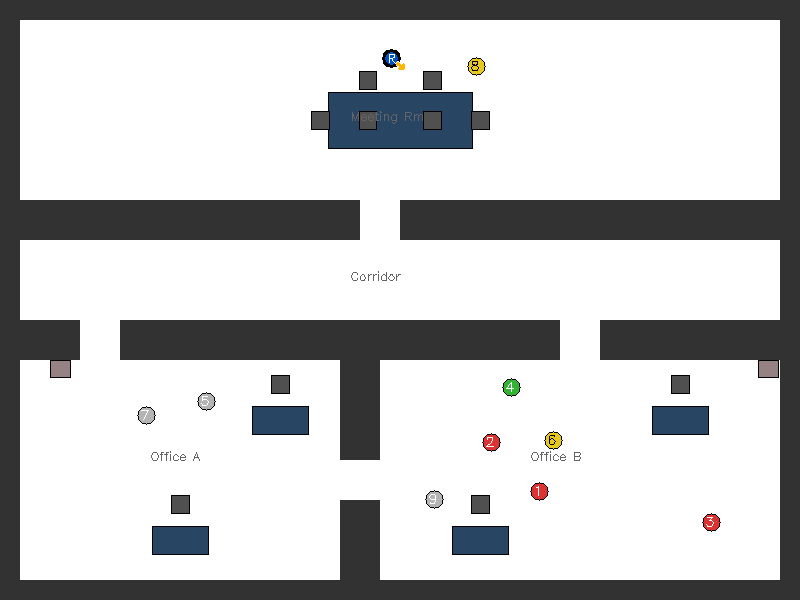
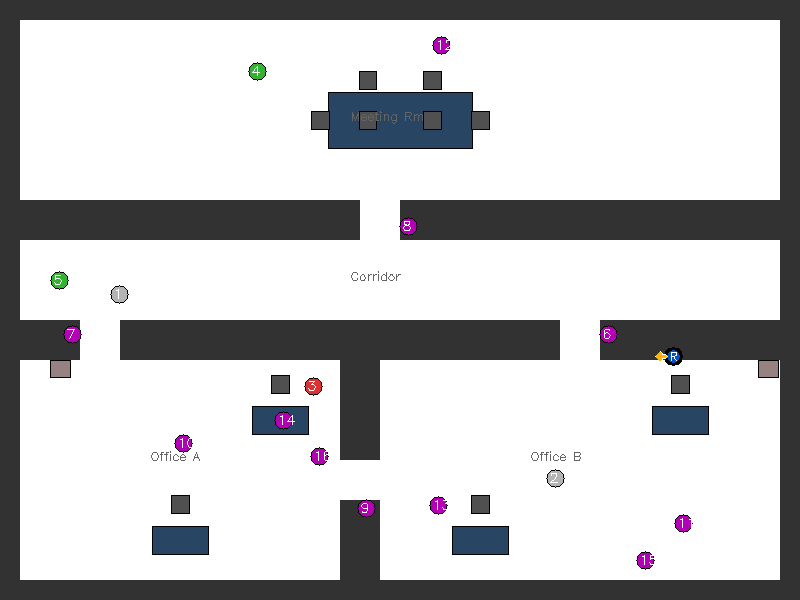
downgraded exit sign, search for person instead, + use sim time for timeout

diff --git a/src/scenario_runner/runner.py b/src/scenario_runner/runner.py
@@ -22,7 +22,7 @@ import logging
 import threading
 import time
 from pathlib import Path
-from typing import Any
+from typing import Any, Callable
 
 from utils.config_loader import load_scenario
 from world_manager.world_generator import WorldGenerator
@@ -40,6 +40,21 @@ _REPO_ROOT = Path(__file__).resolve().parent.parent.parent
 
 # How often to check success criteria during a run
 _POLL_INTERVAL = 2.0
+
+
+def _sim_seconds(node: Any) -> float:
+    """Current sim time in fractional seconds (0.0 until first /clock arrives)."""
+    return node.get_clock().now().nanoseconds * 1e-9
+
+
+def _wait_for_sim_clock(node: Any, timeout_wall: float = 15.0) -> None:
+    """Block until the sim clock publishes its first non-zero tick."""
+    deadline = time.monotonic() + timeout_wall
+    while time.monotonic() < deadline:
+        if _sim_seconds(node) > 0.0:
+            return
+        time.sleep(0.05)
+    log.warning("Sim clock did not become available within %.0fs — timing may be wall-clock", timeout_wall)
 
 
 class ScenarioRunner:
@@ -143,6 +158,8 @@ class ScenarioRunner:
         spin_thread.start()
         # Give DDS time to discover the odom/bumper publishers before the run starts.
         time.sleep(2.0)
+        _wait_for_sim_clock(node)
+        get_time: Callable[[], float] = lambda: _sim_seconds(node)
         log.info("Metrics collection started: %s", list(metrics))
 
         raw: dict[str, Any] = {}
@@ -150,9 +167,10 @@ class ScenarioRunner:
         elapsed = 0.0
         try:
             # ── 4. Run until success criteria met or timeout ───────────────────
-            start_time = time.monotonic()
-            outcome    = self._run_until_done(timeout, metrics, start_time)
-            elapsed    = time.monotonic() - start_time
+            # get_time() returns sim seconds — correct at any --speed multiplier.
+            start_time = get_time()
+            outcome    = self._run_until_done(timeout, metrics, get_time)
+            elapsed    = get_time() - start_time
             log.info("Scenario ended: outcome=%s  elapsed=%.1fs", outcome, elapsed)
 
             # ── 5. Collect final metric snapshot ──────────────────────────────
@@ -400,7 +418,7 @@ class ScenarioRunner:
         self,
         timeout: float,
         metrics: dict[str, Any],
-        start_time: float,
+        get_time: Callable[[], float],
     ) -> str:
         """Poll success criteria every _POLL_INTERVAL seconds.
 
@@ -410,8 +428,9 @@ class ScenarioRunner:
             ``"success"`` if all criteria passed, ``"time_limit"`` when the
             max run time is reached (not a failure — just end of allocated time).
         """
-        deadline = start_time + timeout
-        while time.monotonic() < deadline:
+        start    = get_time()
+        deadline = start + timeout
+        while get_time() < deadline:
             raw = self._collect_metrics(metrics)
             passed, _ = evaluate_criteria(self._cfg["success_criteria"], raw)
             if passed:

diff --git a/scripts/world_state.py b/scripts/world_state.py
@@ -50,7 +50,7 @@ DEFAULT_PNG = REPO_ROOT / "arst_world_map.png"
 CAMERA_FORWARD_OFFSET = 0.05  # metres
 
 # 2-char symbol per object type
-OBJ_SYM = {"fire_extinguisher": "F", "first_aid_kit": "A", "hazard_sign": "H"}
+OBJ_SYM = {"fire_extinguisher": "F", "first_aid_kit": "A", "hazard_sign": "H", "person": "P"}
 
 # Room labels: (world_x_centre, world_y_centre, label)
 ROOMS = [
@@ -324,9 +324,12 @@ def print_summary(
     visible_ids: set[str],
     is_colliding: bool | None,
 ) -> None:
-    print("Objects (ground truth):")
+    print("Objects (ground truth — mission targets only):")
     for lbl in sorted(label_map, key=int):
         info = label_map[lbl]
+        # Backward-compat: old world_state.json without the field → treat as target
+        if not info.get("mission_target", True):
+            continue
         sym = OBJ_SYM.get(info["type"], "?")
         if lbl in found:
             status = "FOUND ✓"
@@ -422,6 +425,9 @@ def render_png(
     VISIBLE_RING  = (255, 255, 255)  # white ring = currently visible
 
     for lbl, info in label_map.items():
+        # Backward-compat: old world_state.json without the field → treat as target
+        if not info.get("mission_target", True):
+            continue
         ix = int(info["x"] * SCALE)
         iy = ih - int(info["y"] * SCALE)
         color = FOUND_COLOR if lbl in found else TYPE_COLOR.get(info["type"], (180, 0, 180))

diff --git a/src/world_manager/object_placer.py b/src/world_manager/object_placer.py
@@ -26,7 +26,8 @@ class PlacedObject:
     x: float
     y: float
     yaw: float = 0.0
-    z: float = 0.0          # 0.0 = floor; >0 = elevated (on furniture surface)
+    z: float = 0.0
+    mission_target: bool = False          # 0.0 = floor; >0 = elevated (on furniture surface)
 
 
 class PlacementError(RuntimeError):
@@ -106,13 +107,17 @@ class ObjectPlacer:
             model_type: str = spec["type"]
             count: int = int(spec.get("count", 1))
             strategy: str = spec.get("placement", "random")
+            is_target: bool = bool(spec.get("mission_target", False))
             if strategy == "clustered":
                 # Place all instances of this type as a cluster together
                 cluster = self._place_clustered(model_type, rng, placed, spec, count)
+                for obj in cluster:
+                    obj.mission_target = is_target
                 placed.extend(cluster)
             else:
                 for _ in range(count):
                     obj = self._place_one_strategy(model_type, rng, placed, spec)
+                    obj.mission_target = is_target
                     placed.append(obj)
 
         return placed

diff --git a/src/world_manager/world_generator.py b/src/world_manager/world_generator.py
@@ -432,6 +432,7 @@ class WorldGenerator:
             self.label_map[str(label_counter)] = {
                 "type": mt, "instance": idx,
                 "x": round(obj.x, 3), "y": round(obj.y, 3),
+                "mission_target": obj.mission_target,
             }
             world_elem.append(self._load_model_element(mt, idx, obj, label_counter))
             label_counter += 1

diff --git a/.claude/skills/arst-test/SKILL.md b/.claude/skills/arst-test/SKILL.md
@@ -1,0 +1,180 @@
+---
+name: arst-test
+description: Test and evaluate an autonomous robot running an ARST scenario. Use when you are the observer/tester — starting the sim, watching a robot agent run, monitoring ground-truth progress, and reading final scores. NOT for driving the robot yourself (use /arst-nav for that, if available).
+user_invocable: true
+---
+
+# arst-test — ARST Autonomous Robot Test Skill
+
+You are the **observer/tester**, not the driver. A separate autonomy stack controls DerpBot.
+Your job: start the sim, start the agent, monitor from the outside, and interpret results.
+
+All commands run from the ~/Projects/robot-sandbox repo root. PYTHONPATH and ROS env are set by hooks — no prefix needed.
+
+---
+
+## Scenario tiers
+
+See the AUTONOMOUS_AGENT_GUIDE.md file.
+---
+
+## 1. Start the simulation
+
+Run in a tmux session so it stays alive:
+```bash
+tmux new -s sim -d './scripts/run_scenario.sh config/scenarios/office_explore_detect/medium.yaml --headless [--seed N] [--speed N] [--timeout N]' # timeout is in sim time
+tmux capture-pane -t sim -p -S -20   # check startup output
+```
+
+Wait ~5 s. Sim is ready when `world_state.py` returns without error.
+
+**Check RTF after sim starts (before agent):**
+```bash
+gz topic -e -t /stats | head -20
+```
+Look for `real_time_factor`. Should be at or near `1.0` (or near `--speed N` if set).
+A RTF of 1.0 is a minimum. If it is lower than that there is something still running on the computer hogging resources.
+
+After starting the agent, **check RTF again**. The sim and autonomy stack share the same hardware. A drop in RTF at this point means the agent is too compute-heavy; the sim will slow down, timing-dependent behaviour will break, and metrics will be skewed.
+
+---
+
+## 2. Start the autonomous agent
+
+Run the robot's agent script in a separate tmux session:
+```bash
+tmux new -s agent -d 'python3.12 <path/to/agent_script.py>'
+tmux capture-pane -t agent -p -S -30   # watch agent output
+```
+
+The agent controls the robot via ROS topics or `robot_control.py`. You do not drive.
+
+---
+
+## 3. Monitor ground-truth progress (world_state.py)
+
+This is your primary observability tool. Call it any time to get a full status snapshot.
+
+```bash
+# Default: writes arst_world_map.png in repo root, prints full status
+python3.12 scripts/world_state.py
+# Then: Read arst_world_map.png
+```
+
+**Output includes:**
+- Object list with status: `not found`, `FOUND ✓`, or `not found  [visible 👁]`
+- Robot pose (world frame, yaw, facing direction)
+- Collision status: `⚡ COLLISION` or `no collision`
+- Elapsed time and remaining time (when scenario is active)
+
+**Map legend:**
+- Blue circle + arrow = robot; RED ring = currently colliding
+- White ring on unfound object = currently visible in camera (LOS-checked)
+- Coloured circles = unfound objects (red=fire_ext, green=first_aid, yellow=hazard)
+- Grey = found, Brown = furniture, Dark = walls
+
+**Save to a custom path** (useful for comparing across time):
+```bash
+python3.12 scripts/world_state.py --png /tmp/map_t0.png
+# ... later ...
+python3.12 scripts/world_state.py --png /tmp/map_t1.png
+```
+
+**Post-run — render map from a results file** (no sim needed):
+```bash
+python3.12 scripts/world_state.py --results results/office_medium_001_<timestamp>.json --no-ros
+```
+
+---
+
+## 4. Check robot pose and camera
+
+```bash
+# Print current pose (world frame, yaw):
+python3.12 scripts/robot_control.py status
+
+# Take a camera snapshot (what the robot currently sees):
+python3.12 scripts/robot_control.py snapshot
+# Default output: /tmp/robot_snapshot.png — then: Read /tmp/robot_snapshot.png
+
+# Save to a named path:
+python3.12 scripts/robot_control.py snapshot --output /tmp/snap_t1.png
+```
+
+Use these to diagnose agent behaviour:
+- Robot stuck? `status` to get pose, compare across calls.
+- Agent claiming to see objects? `snapshot` to verify the camera view.
+- Collision event? `world_state.py` shows collision ring on robot in map.
+
+---
+
+## 5. Read live tmux output
+
+```bash
+# Sim logs (last 30 lines):
+tmux capture-pane -t sim -p -S -30
+
+# Agent logs (last 50 lines):
+tmux capture-pane -t agent -p -S -50
+```
+
+The sim prints a scorecard + `SUCCESS` or `TIME_LIMIT` when the scenario ends.
+The results JSON is written to `results/` automatically.
+
+---
+
+## 6. Interpret the results JSON
+
+Results land in `results/<scenario_name>_<timestamp>.json`.
+
+```bash
+ls -t results/ | head -5   # most recent first
+```
+
+Key fields:
+
+```
+status              — "SUCCESS" or "TIME_LIMIT"
+elapsed_seconds     — sim-seconds taken
+overall_score       — 0–100
+overall_grade       — S / A / B / C / D / F
+categories          — per-category scores: speed, accuracy, safety, efficiency, effectiveness
+raw_metrics:
+  found_ratio           — 0.0–1.0 (1.0 = all 9 objects found)
+  precision             — true positives / all detections (low = many false positives)
+  duplicate_rate        — fraction of detections that are duplicates
+  collision_count       — number of collision events
+  near_miss_count       — passes within 20 cm of obstacle
+  meters_traveled       — total odometry distance
+  exploration_coverage  — % of free space covered by LiDAR
+```
+
+Grade thresholds: S ≥ 95, A ≥ 85, B ≥ 70, C ≥ 55, D ≥ 40, F < 40.
+
+Category weights: speed 20%, accuracy 30%, safety 25%, efficiency 10%, effectiveness 15%.
+
+---
+
+## 7. Monitoring loop (while agent runs)
+
+Repeat until scenario ends or time runs out:
+
+```
+world_state.py  →  Read map  →  check found count + collision status
+robot_control.py status  →  check pose if robot seems stuck
+tmux capture-pane -t agent  →  watch for errors or stalls
+```
+
+Polling interval: every 15–30 s wall-time is enough unless debugging a specific issue.
+At `--speed 3`, 30 s wall = 90 s sim. Check more often for short timeouts.
+
+---
+
+## Key gotchas
+
+- **Python**: always `python3.12`. `python3` may resolve to a different venv.
+- **`world_state.py` requires a running sim** unless you pass `--no-ros --results <file>`.
+- **`robot_control.py status/snapshot` requires a running sim** (needs ROS topics).
+- **Elapsed time is in sim-seconds** — at `--speed 3`, wall time is ~3× faster.
+- **Robot autonomy can significantly impact sim RTF**: minimum RTF is 1.0. Anything lower and the autonomy is too heavy, and needs to be made more efficient.
+

diff --git a/docs/AUTONOMOUS_AGENT_GUIDE.md b/docs/AUTONOMOUS_AGENT_GUIDE.md
@@ -139,7 +139,7 @@ The response is JSON with both a **human-readable** `description` field and **st
   "targets": [
     {"type": "fire_extinguisher", "count": 3,   "count_exact": true},
     {"type": "first_aid_kit",     "count": 2,   "count_exact": true},
-    {"type": "hazard_sign",       "count_exact": false, "min_count": 1}
+    {"type": "exit_sign",       "count_exact": false, "min_count": 1}
   ],
   "status": "running",
   "description": "Explore the environment and locate all target objects within 600s. Targets: exactly 3 fire extinguisher(s), exactly 2 first aid kit(s), at least 1 hazard sign(s) (exact count unknown). Status: running."

diff --git a/readme.md b/readme.md
@@ -116,6 +116,7 @@ python3.12 -m pytest tests/
 
 To fix: 
 - bugs:
+  - scenario timeout does not take RTF into account?
 - extensions:
 - new features:
   - add sound? E.g. for detecting victims
